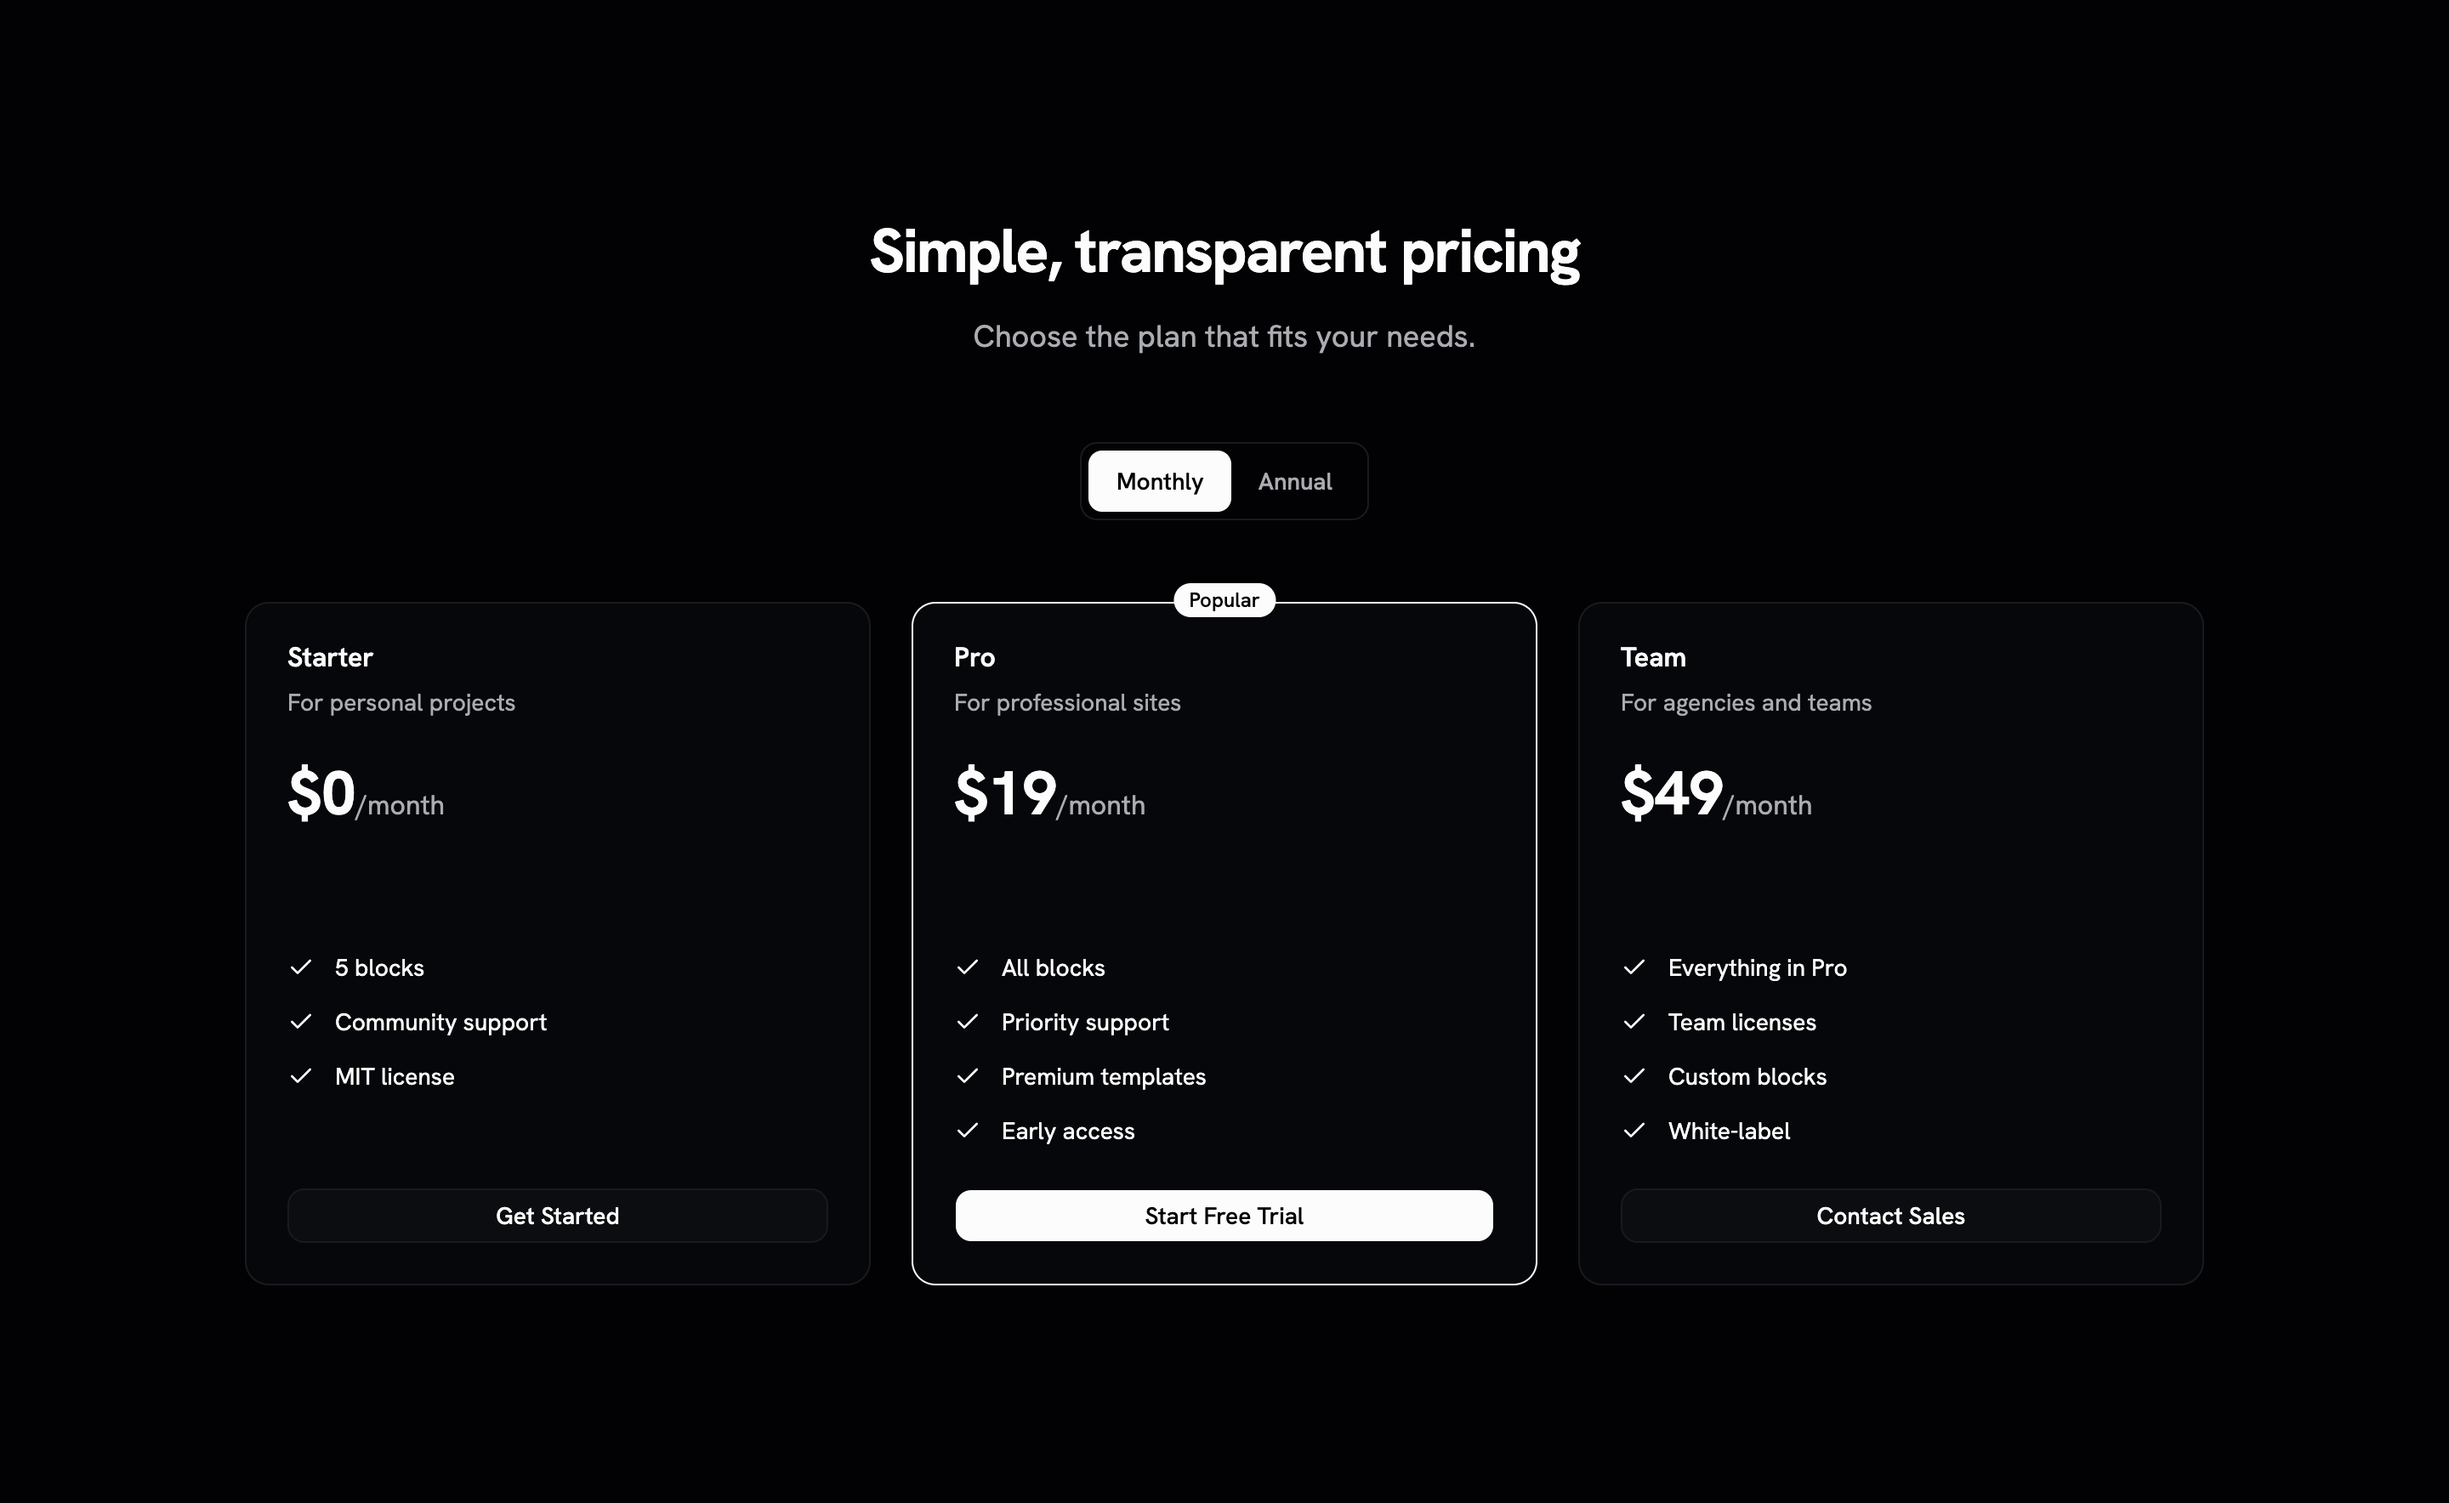
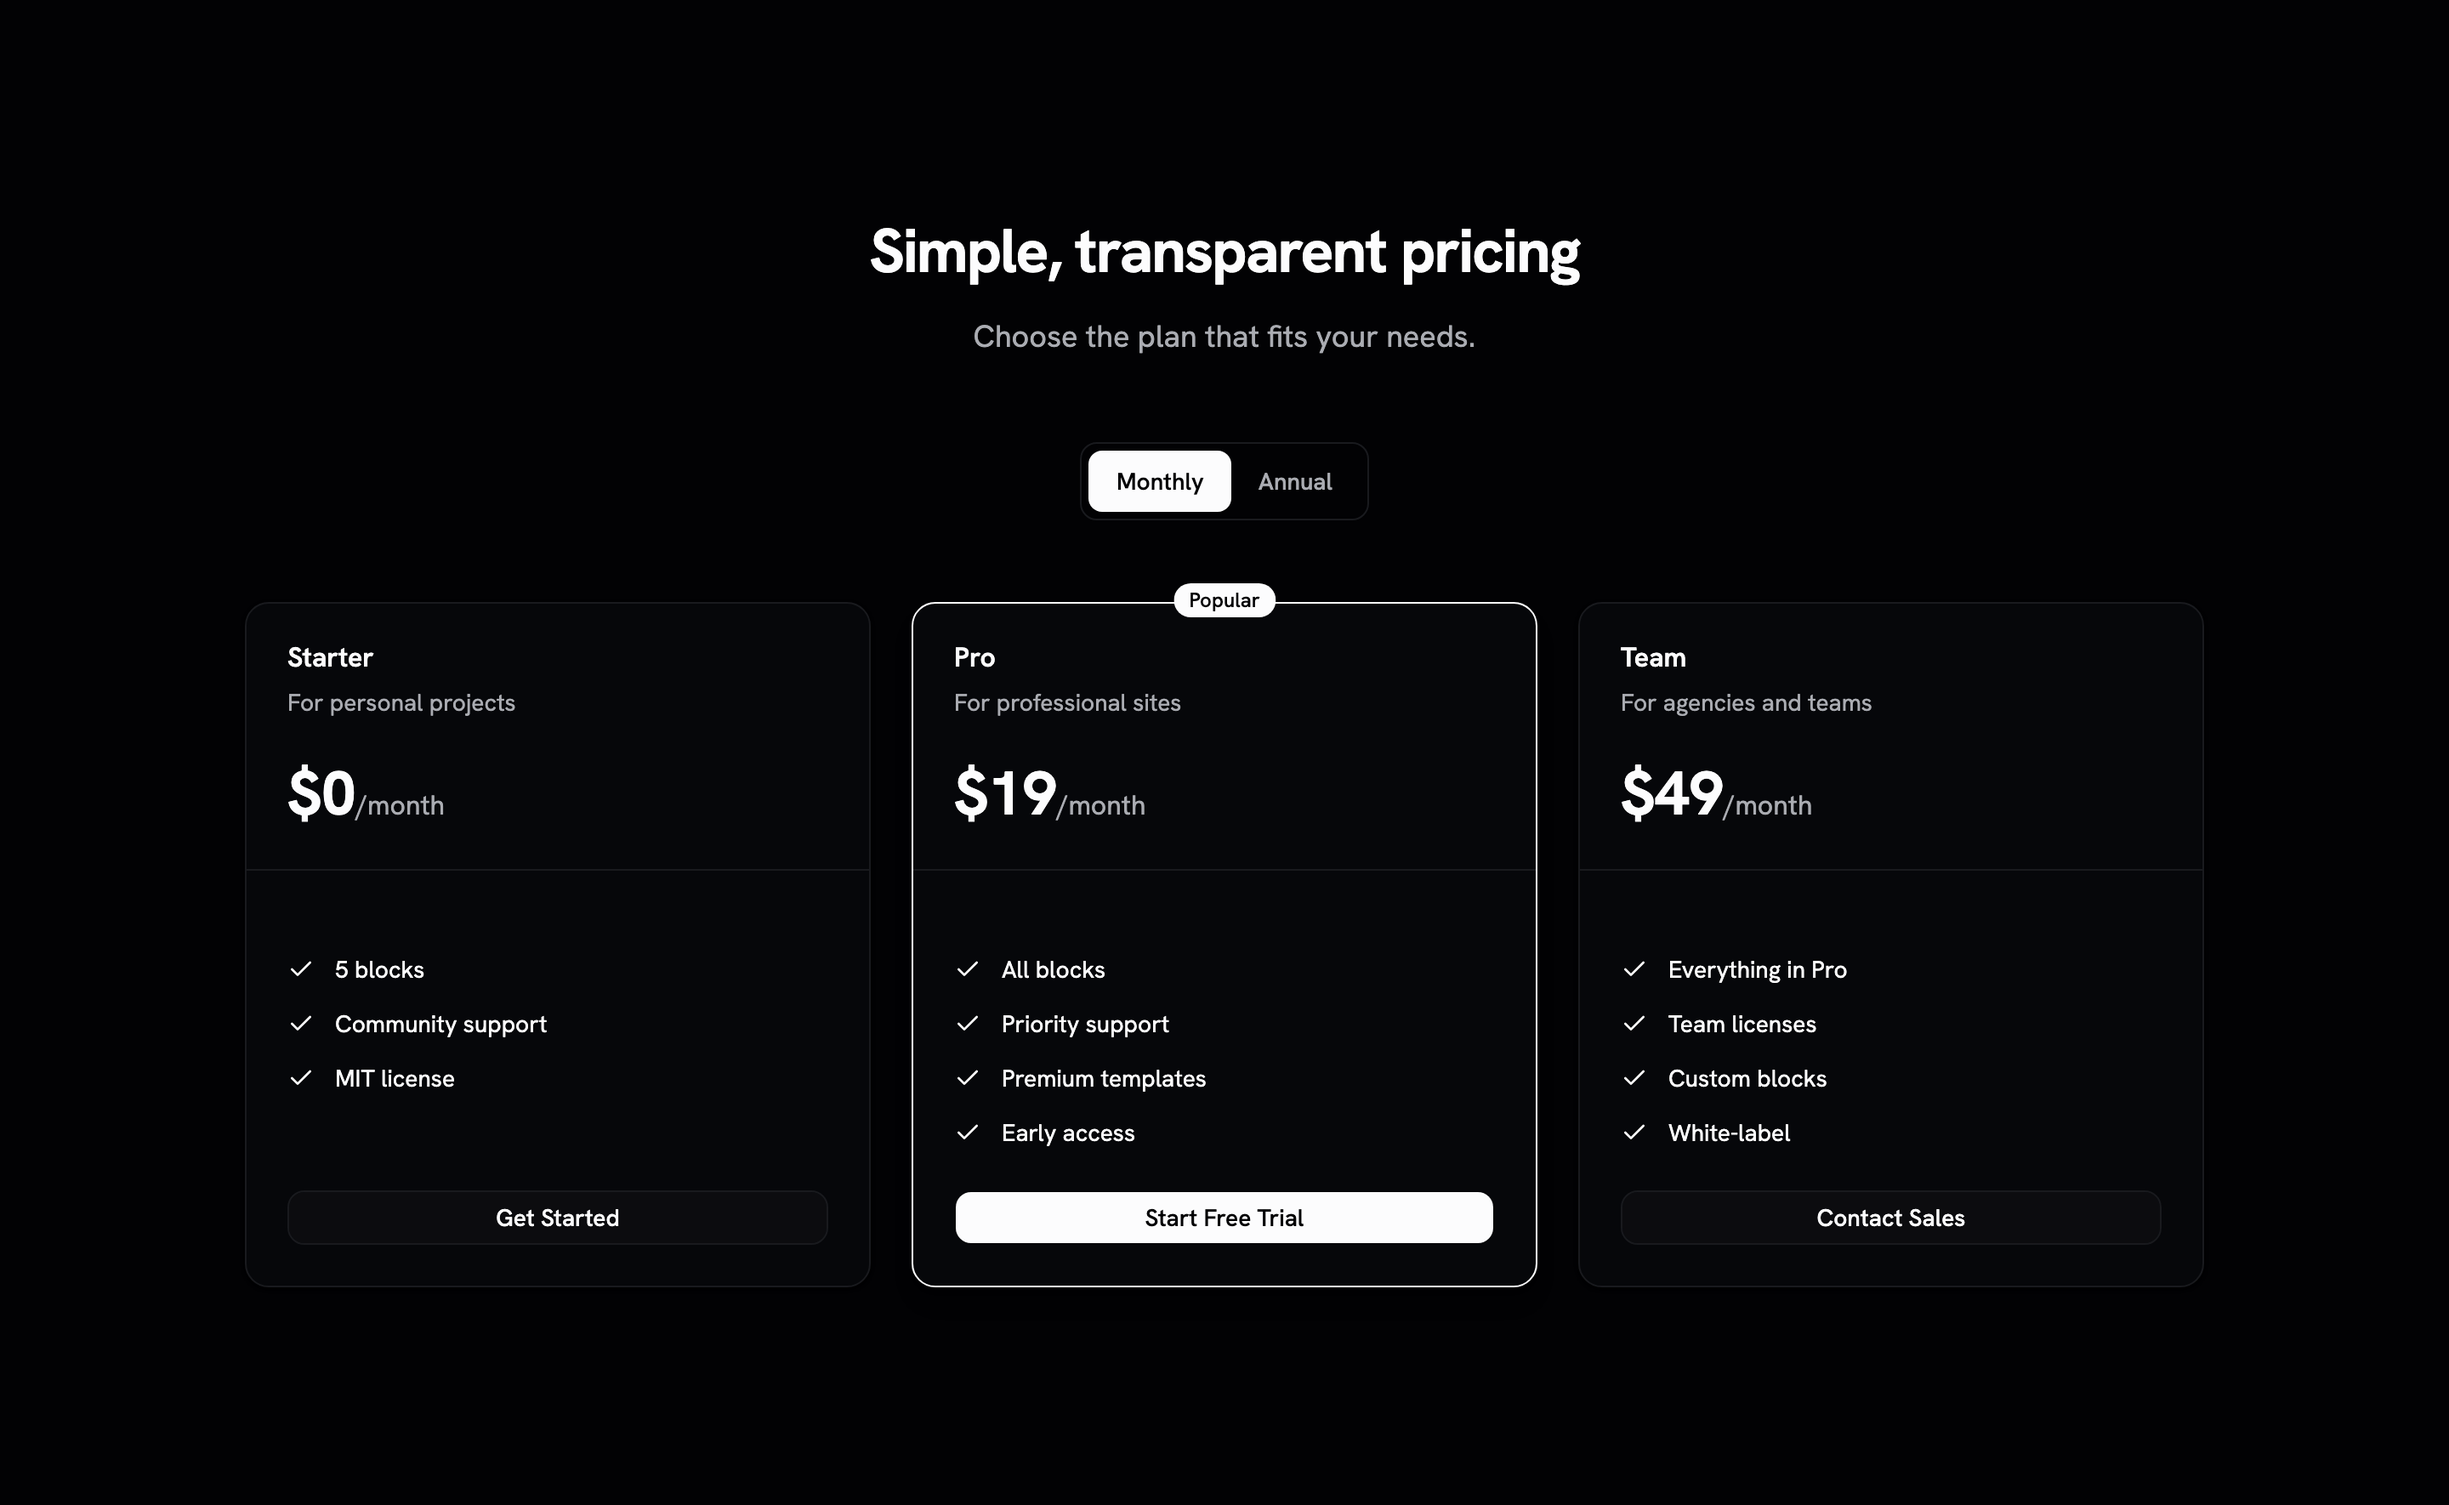
fix(ui-docs): copias de src/components/ui — data-[orientation=…]: en vez de data-horizontal:/data-vertical: (#43)
button-group, scroll-area, separator, tabs y toggle-group. Base UI emite
data-orientation y ui-docs no importa shadcn/tailwind.css: esas variantes no
casaban con nada. Mismo arreglo que #42 en el registry.

DOM medido (antes → después):
- /preview/pricing-01: los 3 separator 850×0 → 850×1
- sonda local sin commitear: separator h 300×0→300×1, v 0×40→1×40;
  button-group-separator my/mx 0→1px y 0→1px de grueso; scrollbar h 188×2 →
  180×10 flex-col bt=1px, v 2×92 → 10×94 bl=1px; tabs h flex-row → col,
  indicador line 0×0 → 21×2; tabs v lista row → col, indicador 0×0 → 2×24;
  toggle-group v row → col (64×32 → 32×64), radios de extremos 0 → 10px.

PNG de pricing-01 recapturadas; field recapturado sin cambio de píxeles
(su preview no pinta separador). fuentes.json al día.

diff --git a/apps/ui-docs/src/components/ui/tabs.tsx b/apps/ui-docs/src/components/ui/tabs.tsx
@@ -13,7 +13,7 @@ function Tabs({
       data-slot="tabs"
       data-orientation={orientation}
       className={cn(
-        "group/tabs flex gap-2 data-horizontal:flex-col",
+        "group/tabs flex gap-2 data-[orientation=horizontal]:flex-col",
         className
       )}
       {...props}
@@ -22,7 +22,7 @@ function Tabs({
 }
 
 const tabsListVariants = cva(
-  "group/tabs-list inline-flex w-fit items-center justify-center rounded-lg p-[3px] text-muted-foreground group-data-horizontal/tabs:h-8 group-data-vertical/tabs:h-fit group-data-vertical/tabs:flex-col data-[variant=line]:rounded-none",
+  "group/tabs-list inline-flex w-fit items-center justify-center rounded-lg p-[3px] text-muted-foreground group-data-[orientation=horizontal]/tabs:h-8 group-data-[orientation=vertical]/tabs:h-fit group-data-[orientation=vertical]/tabs:flex-col data-[variant=line]:rounded-none",
   {
     variants: {
       variant: {
@@ -56,10 +56,10 @@ function TabsTrigger({ className, ...props }: TabsPrimitive.Tab.Props) {
     <TabsPrimitive.Tab
       data-slot="tabs-trigger"
       className={cn(
-        "relative inline-flex h-[calc(100%-1px)] flex-1 items-center justify-center gap-1.5 rounded-md border border-transparent px-1.5 py-0.5 text-sm font-medium whitespace-nowrap text-foreground/60 transition-all group-data-vertical/tabs:w-full group-data-vertical/tabs:justify-start hover:text-foreground focus-visible:border-ring focus-visible:ring-[3px] focus-visible:ring-ring/50 focus-visible:outline-1 focus-visible:outline-ring disabled:pointer-events-none disabled:opacity-50 has-data-[icon=inline-end]:pr-1 has-data-[icon=inline-start]:pl-1 aria-disabled:pointer-events-none aria-disabled:opacity-50 dark:text-muted-foreground dark:hover:text-foreground group-data-[variant=default]/tabs-list:data-active:shadow-sm group-data-[variant=line]/tabs-list:data-active:shadow-none [&_svg]:pointer-events-none [&_svg]:shrink-0 [&_svg:not([class*='size-'])]:size-4",
+        "relative inline-flex h-[calc(100%-1px)] flex-1 items-center justify-center gap-1.5 rounded-md border border-transparent px-1.5 py-0.5 text-sm font-medium whitespace-nowrap text-foreground/60 transition-all group-data-[orientation=vertical]/tabs:w-full group-data-[orientation=vertical]/tabs:justify-start hover:text-foreground focus-visible:border-ring focus-visible:ring-[3px] focus-visible:ring-ring/50 focus-visible:outline-1 focus-visible:outline-ring disabled:pointer-events-none disabled:opacity-50 has-data-[icon=inline-end]:pr-1 has-data-[icon=inline-start]:pl-1 aria-disabled:pointer-events-none aria-disabled:opacity-50 dark:text-muted-foreground dark:hover:text-foreground group-data-[variant=default]/tabs-list:data-active:shadow-sm group-data-[variant=line]/tabs-list:data-active:shadow-none [&_svg]:pointer-events-none [&_svg]:shrink-0 [&_svg:not([class*='size-'])]:size-4",
         "group-data-[variant=line]/tabs-list:bg-transparent group-data-[variant=line]/tabs-list:data-active:bg-transparent dark:group-data-[variant=line]/tabs-list:data-active:border-transparent dark:group-data-[variant=line]/tabs-list:data-active:bg-transparent",
         "data-active:bg-background data-active:text-foreground dark:data-active:border-input dark:data-active:bg-input/30 dark:data-active:text-foreground",
-        "after:absolute after:bg-foreground after:opacity-0 after:transition-opacity group-data-horizontal/tabs:after:inset-x-0 group-data-horizontal/tabs:after:bottom-[-5px] group-data-horizontal/tabs:after:h-0.5 group-data-vertical/tabs:after:inset-y-0 group-data-vertical/tabs:after:-right-1 group-data-vertical/tabs:after:w-0.5 group-data-[variant=line]/tabs-list:data-active:after:opacity-100",
+        "after:absolute after:bg-foreground after:opacity-0 after:transition-opacity group-data-[orientation=horizontal]/tabs:after:inset-x-0 group-data-[orientation=horizontal]/tabs:after:bottom-[-5px] group-data-[orientation=horizontal]/tabs:after:h-0.5 group-data-[orientation=vertical]/tabs:after:inset-y-0 group-data-[orientation=vertical]/tabs:after:-right-1 group-data-[orientation=vertical]/tabs:after:w-0.5 group-data-[variant=line]/tabs-list:data-active:after:opacity-100",
         className
       )}
       {...props}

diff --git a/apps/ui-docs/src/components/ui/toggle-group.tsx b/apps/ui-docs/src/components/ui/toggle-group.tsx
@@ -40,7 +40,7 @@ function ToggleGroup({
       data-orientation={orientation}
       style={{ "--gap": spacing } as React.CSSProperties}
       className={cn(
-        "group/toggle-group flex w-fit flex-row items-center gap-[--spacing(var(--gap))] rounded-lg data-[size=sm]:rounded-[min(var(--radius-md),10px)] data-vertical:flex-col data-vertical:items-stretch",
+        "group/toggle-group flex w-fit flex-row items-center gap-[--spacing(var(--gap))] rounded-lg data-[size=sm]:rounded-[min(var(--radius-md),10px)] data-[orientation=vertical]:flex-col data-[orientation=vertical]:items-stretch",
         className
       )}
       {...props}
@@ -70,7 +70,7 @@ function ToggleGroupItem({
       data-size={context.size || size}
       data-spacing={context.spacing}
       className={cn(
-        "shrink-0 group-data-[spacing=0]/toggle-group:rounded-none group-data-[spacing=0]/toggle-group:px-2 focus:z-10 focus-visible:z-10 group-data-[spacing=0]/toggle-group:has-data-[icon=inline-end]:pr-1.5 group-data-[spacing=0]/toggle-group:has-data-[icon=inline-start]:pl-1.5 group-data-horizontal/toggle-group:data-[spacing=0]:first:rounded-l-lg group-data-vertical/toggle-group:data-[spacing=0]:first:rounded-t-lg group-data-horizontal/toggle-group:data-[spacing=0]:last:rounded-r-lg group-data-vertical/toggle-group:data-[spacing=0]:last:rounded-b-lg group-data-horizontal/toggle-group:data-[spacing=0]:data-[variant=outline]:border-l-0 group-data-vertical/toggle-group:data-[spacing=0]:data-[variant=outline]:border-t-0 group-data-horizontal/toggle-group:data-[spacing=0]:data-[variant=outline]:first:border-l group-data-vertical/toggle-group:data-[spacing=0]:data-[variant=outline]:first:border-t",
+        "shrink-0 group-data-[spacing=0]/toggle-group:rounded-none group-data-[spacing=0]/toggle-group:px-2 focus:z-10 focus-visible:z-10 group-data-[spacing=0]/toggle-group:has-data-[icon=inline-end]:pr-1.5 group-data-[spacing=0]/toggle-group:has-data-[icon=inline-start]:pl-1.5 group-data-[orientation=horizontal]/toggle-group:data-[spacing=0]:first:rounded-l-lg group-data-[orientation=vertical]/toggle-group:data-[spacing=0]:first:rounded-t-lg group-data-[orientation=horizontal]/toggle-group:data-[spacing=0]:last:rounded-r-lg group-data-[orientation=vertical]/toggle-group:data-[spacing=0]:last:rounded-b-lg group-data-[orientation=horizontal]/toggle-group:data-[spacing=0]:data-[variant=outline]:border-l-0 group-data-[orientation=vertical]/toggle-group:data-[spacing=0]:data-[variant=outline]:border-t-0 group-data-[orientation=horizontal]/toggle-group:data-[spacing=0]:data-[variant=outline]:first:border-l group-data-[orientation=vertical]/toggle-group:data-[spacing=0]:data-[variant=outline]:first:border-t",
         toggleVariants({
           variant: context.variant || variant,
           size: context.size || size,

diff --git a/apps/ui-docs/src/components/ui/scroll-area.tsx b/apps/ui-docs/src/components/ui/scroll-area.tsx
@@ -39,7 +39,7 @@ function ScrollBar({
       data-orientation={orientation}
       orientation={orientation}
       className={cn(
-        "flex touch-none p-px transition-colors select-none data-horizontal:h-2.5 data-horizontal:flex-col data-horizontal:border-t data-horizontal:border-t-transparent data-vertical:h-full data-vertical:w-2.5 data-vertical:border-l data-vertical:border-l-transparent",
+        "flex touch-none p-px transition-colors select-none data-[orientation=horizontal]:h-2.5 data-[orientation=horizontal]:flex-col data-[orientation=horizontal]:border-t data-[orientation=horizontal]:border-t-transparent data-[orientation=vertical]:h-full data-[orientation=vertical]:w-2.5 data-[orientation=vertical]:border-l data-[orientation=vertical]:border-l-transparent",
         className
       )}
       {...props}

diff --git a/apps/ui-docs/src/components/ui/button-group.tsx b/apps/ui-docs/src/components/ui/button-group.tsx
@@ -71,7 +71,7 @@ function ButtonGroupSeparator({
       data-slot="button-group-separator"
       orientation={orientation}
       className={cn(
-        "relative self-stretch bg-input data-horizontal:mx-px data-horizontal:w-auto data-vertical:my-px data-vertical:h-auto",
+        "relative self-stretch bg-input data-[orientation=horizontal]:mx-px data-[orientation=horizontal]:w-auto data-[orientation=vertical]:my-px data-[orientation=vertical]:h-auto",
         className
       )}
       {...props}

diff --git a/apps/ui-docs/src/components/ui/separator.tsx b/apps/ui-docs/src/components/ui/separator.tsx
@@ -12,7 +12,7 @@ function Separator({
       data-slot="separator"
       orientation={orientation}
       className={cn(
-        "shrink-0 bg-border data-horizontal:h-px data-horizontal:w-full data-vertical:w-px data-vertical:self-stretch",
+        "shrink-0 bg-border data-[orientation=horizontal]:h-px data-[orientation=horizontal]:w-full data-[orientation=vertical]:w-px data-[orientation=vertical]:self-stretch",
         className
       )}
       {...props}
